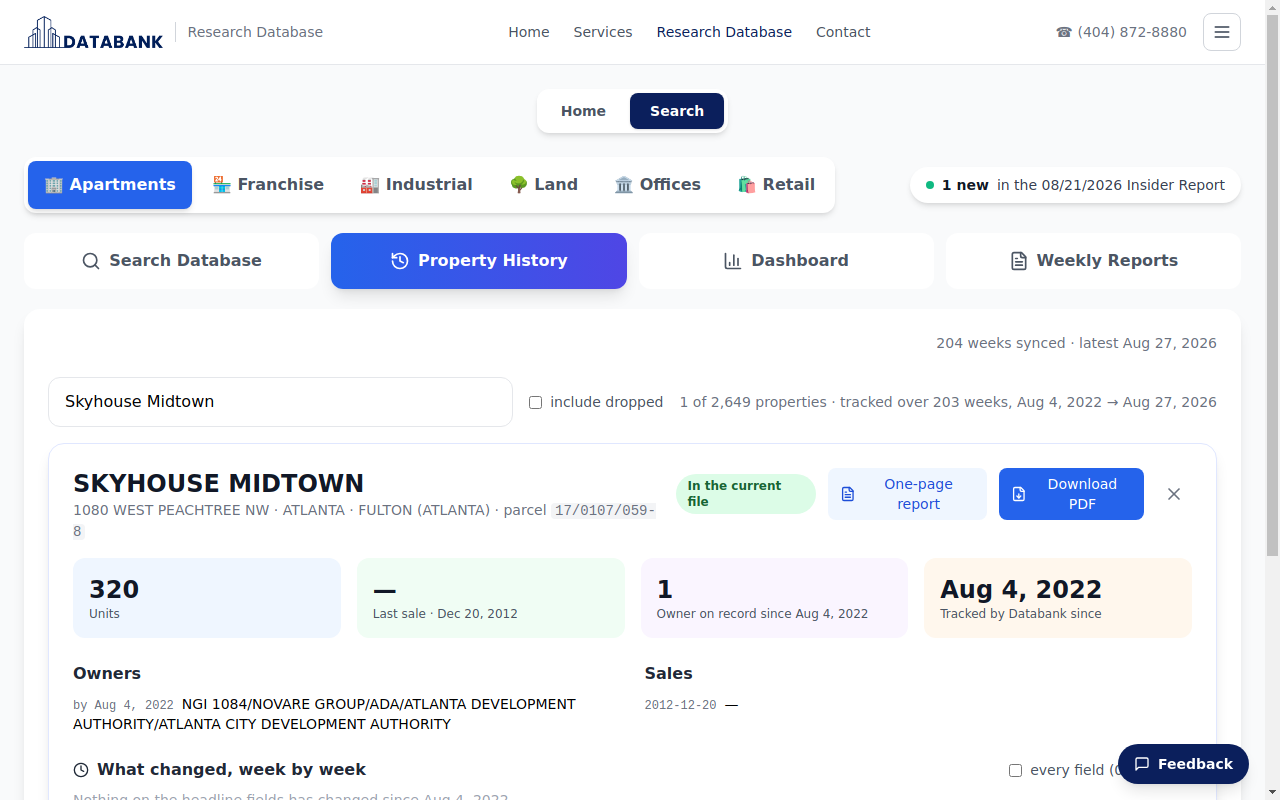
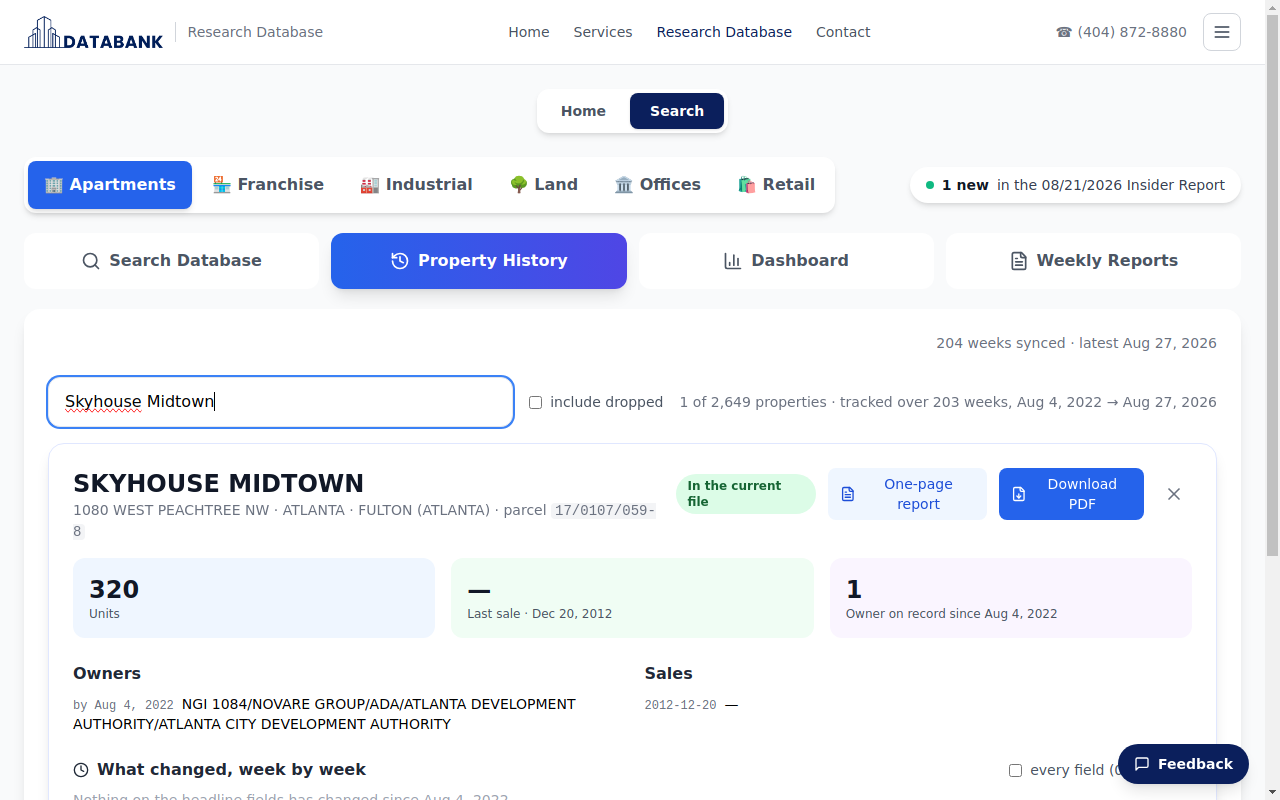
Handbook: topics as a bold left sidebar with the open topic's sections beneath; refresh History screenshot

diff --git a/frontend/src/Help.tsx b/frontend/src/Help.tsx
@@ -270,35 +270,41 @@ export function Help({ onExit }: { onExit?: () => void }) {
         <button onClick={() => open(null)} className="inline-flex items-center gap-1 text-gray-600 hover:text-[#0b1f5c]"><ArrowLeft className="w-4 h-4" /> All topics</button>
         {onExit && <><span className="text-gray-300">|</span><button onClick={onExit} className="text-gray-600 hover:text-[#0b1f5c]">Back to Search</button></>}
       </div>
-      <div className="flex gap-2 overflow-x-auto pb-3 mb-6 -mx-1 px-1">
-        {topics.map((t) => (
-          <button
-            key={t.id}
-            onClick={() => open(t.id)}
-            className={`shrink-0 inline-flex items-center gap-2 px-4 py-2 rounded-full text-sm font-semibold border transition-colors ${
-              t.id === topic.id ? 'bg-[#0b1f5c] text-white border-[#0b1f5c]' : 'bg-white text-gray-700 border-gray-200 hover:border-[#0b1f5c]/50'
-            }`}
-          >
-            <t.icon className="w-4 h-4" /> {t.title}
-          </button>
-        ))}
-      </div>
-      <div className="grid lg:grid-cols-[240px_1fr] gap-6 items-start">
-        <aside className="hidden lg:block sticky top-24 bg-white rounded-2xl border border-gray-200 p-4 text-sm">
-          <div className="text-xs font-semibold uppercase tracking-wide text-gray-400 mb-2">In this topic</div>
-          <ul className="space-y-1">
-            {topic.sections.map((s) => (
-              <li key={s.slug}>
-                <button onClick={() => open(topic.id, s.slug)} className="text-left font-medium text-gray-800 hover:text-[#0b1f5c]">{s.title}</button>
-                {s.subs.length > 0 && (
-                  <ul className="ml-3 mt-1 space-y-0.5 border-l border-gray-200 pl-3">
-                    {s.subs.map((sub) => (
-                      <li key={sub.slug}><button onClick={() => open(topic.id, sub.slug)} className="text-left text-gray-500 hover:text-[#0b1f5c]">{sub.title}</button></li>
-                    ))}
-                  </ul>
-                )}
-              </li>
-            ))}
+      <div className="grid lg:grid-cols-[260px_1fr] gap-6 items-start">
+        <aside className="lg:sticky lg:top-24 bg-white rounded-2xl border border-gray-200 p-3 text-sm">
+          <div className="text-xs font-semibold uppercase tracking-wide text-gray-400 px-3 pt-1 pb-2">Topics</div>
+          <ul className="space-y-0.5">
+            {topics.map((t) => {
+              const active = t.id === topic.id;
+              return (
+                <li key={t.id}>
+                  <button
+                    onClick={() => open(t.id)}
+                    className={`w-full flex items-center gap-2.5 px-3 py-2 rounded-lg text-left font-bold transition-colors ${
+                      active ? 'bg-[#0b1f5c] text-white' : 'text-gray-800 hover:bg-gray-100'
+                    }`}
+                  >
+                    <t.icon className="w-4 h-4 shrink-0" /> {t.title}
+                  </button>
+                  {active && (
+                    <ul className="ml-5 my-1.5 space-y-1 border-l-2 border-[#0b1f5c]/20 pl-3">
+                      {t.sections.map((s) => (
+                        <li key={s.slug}>
+                          <button onClick={() => open(t.id, s.slug)} className="text-left font-medium text-gray-700 hover:text-[#0b1f5c]">{s.title}</button>
+                          {s.subs.length > 0 && (
+                            <ul className="ml-3 mt-0.5 space-y-0.5">
+                              {s.subs.map((sub) => (
+                                <li key={sub.slug}><button onClick={() => open(t.id, sub.slug)} className="text-left text-gray-500 hover:text-[#0b1f5c]">{sub.title}</button></li>
+                              ))}
+                            </ul>
+                          )}
+                        </li>
+                      ))}
+                    </ul>
+                  )}
+                </li>
+              );
+            })}
           </ul>
         </aside>
         <article className="bg-white rounded-2xl shadow-lg border border-gray-100 px-6 sm:px-10 py-8 min-w-0">
